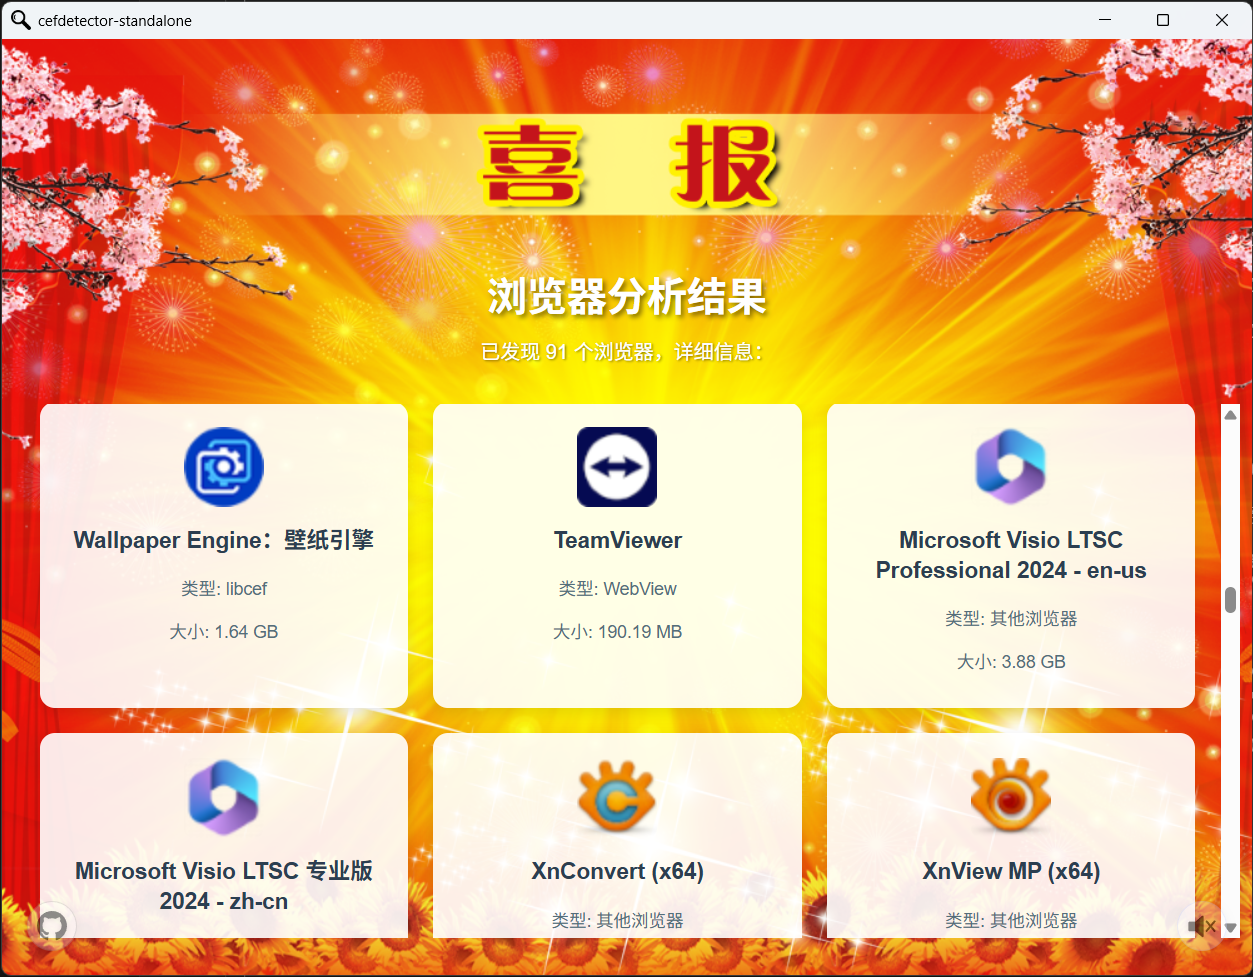
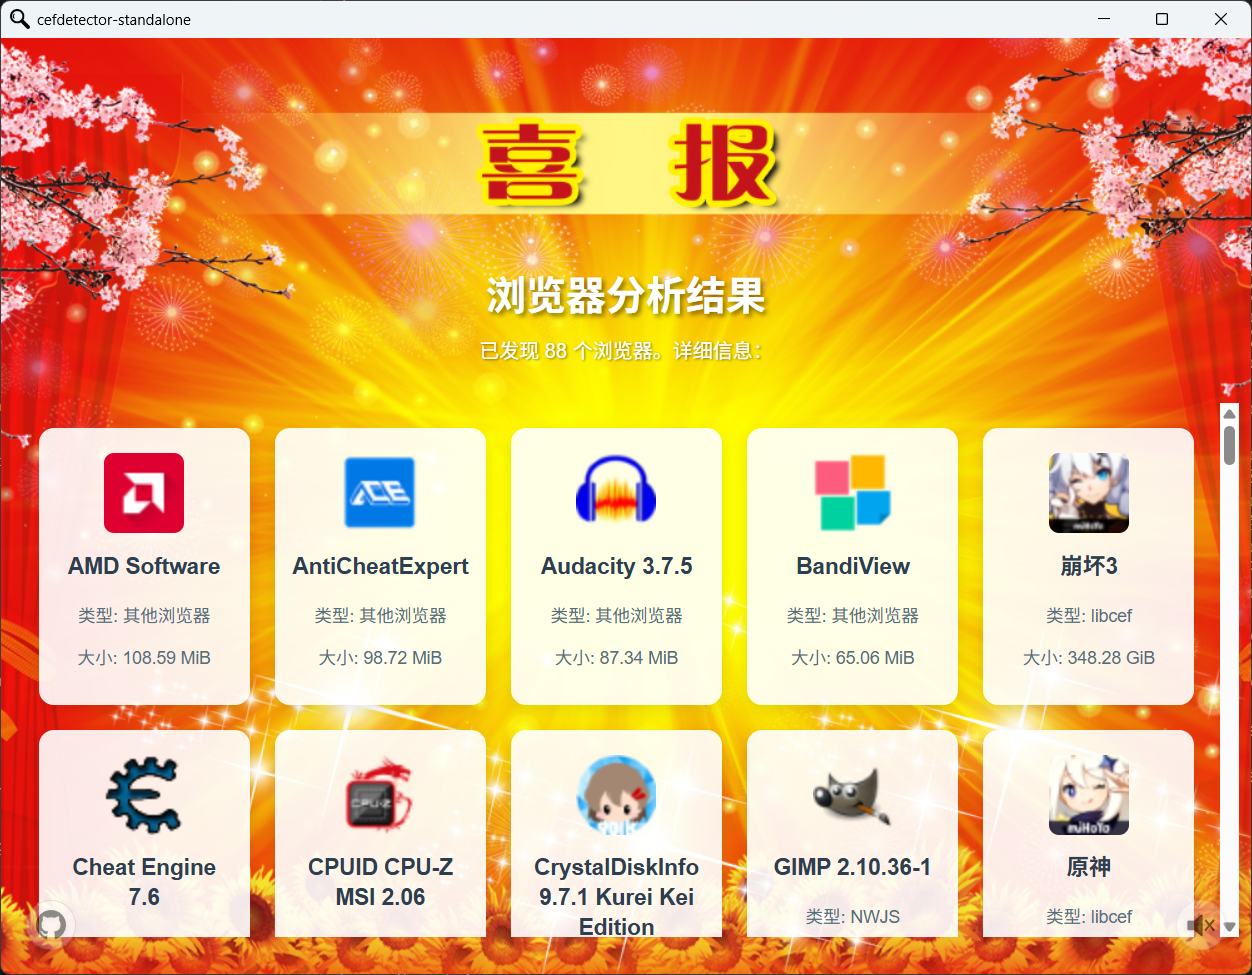
edit grid size and edit backend size calculation

diff --git a/src/main.js b/src/main.js
@@ -81,13 +81,14 @@ function createBrowserCard(browserInfo) {
   return card;
 }
 
-// 格式化大小显示
 function formatSize(bytes) {
   if (bytes === 0) return '0 B';
-  const k = 1024;
-  const sizes = ['B', 'KB', 'MB', 'GB'];
-  const i = Math.floor(Math.log(bytes) / Math.log(k));
-  return parseFloat((bytes / Math.pow(k, i)).toFixed(2)) + ' ' + sizes[i];
+  
+  const units = ['B', 'KiB', 'MiB', 'GiB', 'TiB'];
+  const i = Math.floor(Math.log(bytes) / Math.log(1024));
+  const value = bytes / Math.pow(1024, i);
+  
+  return `${value.toFixed(2)} ${units[i]}`;
 }
 
 // 设置事件监听
@@ -199,12 +200,14 @@ async function analyzeApps() {
     
     // 调用Rust函数
     console.log("开始分析浏览器...");
-    const browser_count = await invoke("search_browsers");
-    console.log(`发现 ${browser_count} 个浏览器`);
+    const browser_summary = await invoke("search_browsers");
+    const browser_count = browser_summary.count;
+    const browser_size = browser_summary.size;
+    console.log(`发现 ${browser_count} 个浏览器，总大小${formatSize(browser_size)}。（大小包含整个程序）`);
     
     // 更新描述
     if (browser_count > 0) {
-      description.textContent = `已发现 ${browser_count} 个浏览器，详细信息：`;
+      description.textContent = `已发现 ${browser_count} 个浏览器。详细信息：`;
     } else {
       description.textContent = '未发现浏览器';
     }
@@ -331,92 +334,6 @@ window.addEventListener("DOMContentLoaded", () => {
       0% { transform: scale(1); }
       50% { transform: scale(1.05); }
       100% { transform: scale(1); }
-    }
-    
-    /* 浏览器网格样式 */
-    .browsers-grid {
-      display: grid;
-      grid-template-columns: repeat(auto-fill, minmax(250px, 1fr));
-      gap: 20px;
-      width: 100%;
-      max-width: 1200px;
-      margin-top: 20px;
-      padding: 20px;
-      overflow-y: auto;
-      max-height: 500px;
-    }
-    
-    .browser-card {
-      background-color: rgba(255, 255, 255, 0.9);
-      border-radius: 12px;
-      padding: 20px;
-      box-shadow: 0 4px 12px rgba(0, 0, 0, 0.1);
-      display: flex;
-      flex-direction: column;
-      align-items: center;
-      transition: all 0.3s ease;
-    }
-    
-    .browser-card:hover {
-      transform: translateY(-5px);
-      box-shadow: 0 8px 20px rgba(0, 0, 0, 0.15);
-    }
-    
-    .browser-icon {
-      width: 64px;
-      height: 64px;
-      object-fit: contain;
-      margin-bottom: 15px;
-      border-radius: 8px;
-    }
-    
-    .browser-name {
-      margin: 0 0 10px 0;
-      font-size: 18px;
-      font-weight: 600;
-      color: #2c3e50;
-      text-align: center;
-    }
-    
-    .browser-type, .browser-size {
-      margin: 5px 0;
-      font-size: 14px;
-      color: #546e7a;
-      text-align: center;
-    }
-    
-    .analysis-title {
-      color: white;
-      text-align: center;
-      margin-top: 20px;
-      margin-bottom: 10px;
-      text-shadow: 2px 2px 4px rgba(0, 0, 0, 0.5);
-    }
-    
-    .grid-description {
-      color: white;
-      text-align: center;
-      margin: 10px 0;
-      text-shadow: 1px 1px 2px rgba(0, 0, 0, 0.5);
-    }
-    
-    /* 深色模式适配 */
-    @media (prefers-color-scheme: dark) {
-      .browser-card {
-        background-color: rgba(40, 40, 40, 0.9);
-      }
-      
-      .browser-name {
-        color: #e0e0e0;
-      }
-      
-      .browser-type, .browser-size {
-        color: #b0bec5;
-      }
-      
-      .analysis-title, .grid-description {
-        color: #f0f0f0;
-      }
     }
   `;
   document.head.appendChild(style);

diff --git a/src/styles.css b/src/styles.css
@@ -360,7 +360,7 @@ body {
 /* 浏览器网格样式 */
 .browsers-grid {
   display: grid;
-  grid-template-columns: repeat(auto-fill, minmax(250px, 1fr));
+  grid-template-columns: repeat(auto-fill, minmax(150px, 1fr));
   gap: 20px;
   width: 100%;
   max-width: 1200px;

diff --git a/src-tauri/src/lib.rs b/src-tauri/src/lib.rs
@@ -8,17 +8,33 @@ fn search_installed() -> usize {
     apps.len()
 }
 
+#[derive(Clone, serde::Serialize)]
+#[serde(rename_all = "camelCase")]
+struct BrowserSummary {
+    size: u64,
+    count: usize,
+}
+
 #[tauri::command]
-async fn search_browsers(app_handle: tauri::AppHandle) -> usize {
+async fn search_browsers(app_handle: tauri::AppHandle) -> BrowserSummary {
     let apps = get_installed_apps();
 
     let browsers = detect_browser_apps(apps, app_handle);
 
-    let count = browsers
+    let count: usize = browsers
     .iter()
     .filter(|info| info.is_browser)
     .count();
-    count
+
+    let total_size: u64 = browsers.iter()
+    .filter(|browser| browser.is_browser)
+    .map(|browser| browser.size)
+    .sum();
+
+    BrowserSummary {
+        size: total_size,
+        count: count
+    }
 }
 
 // Learn more about Tauri commands at https://tauri.app/develop/calling-rust/
